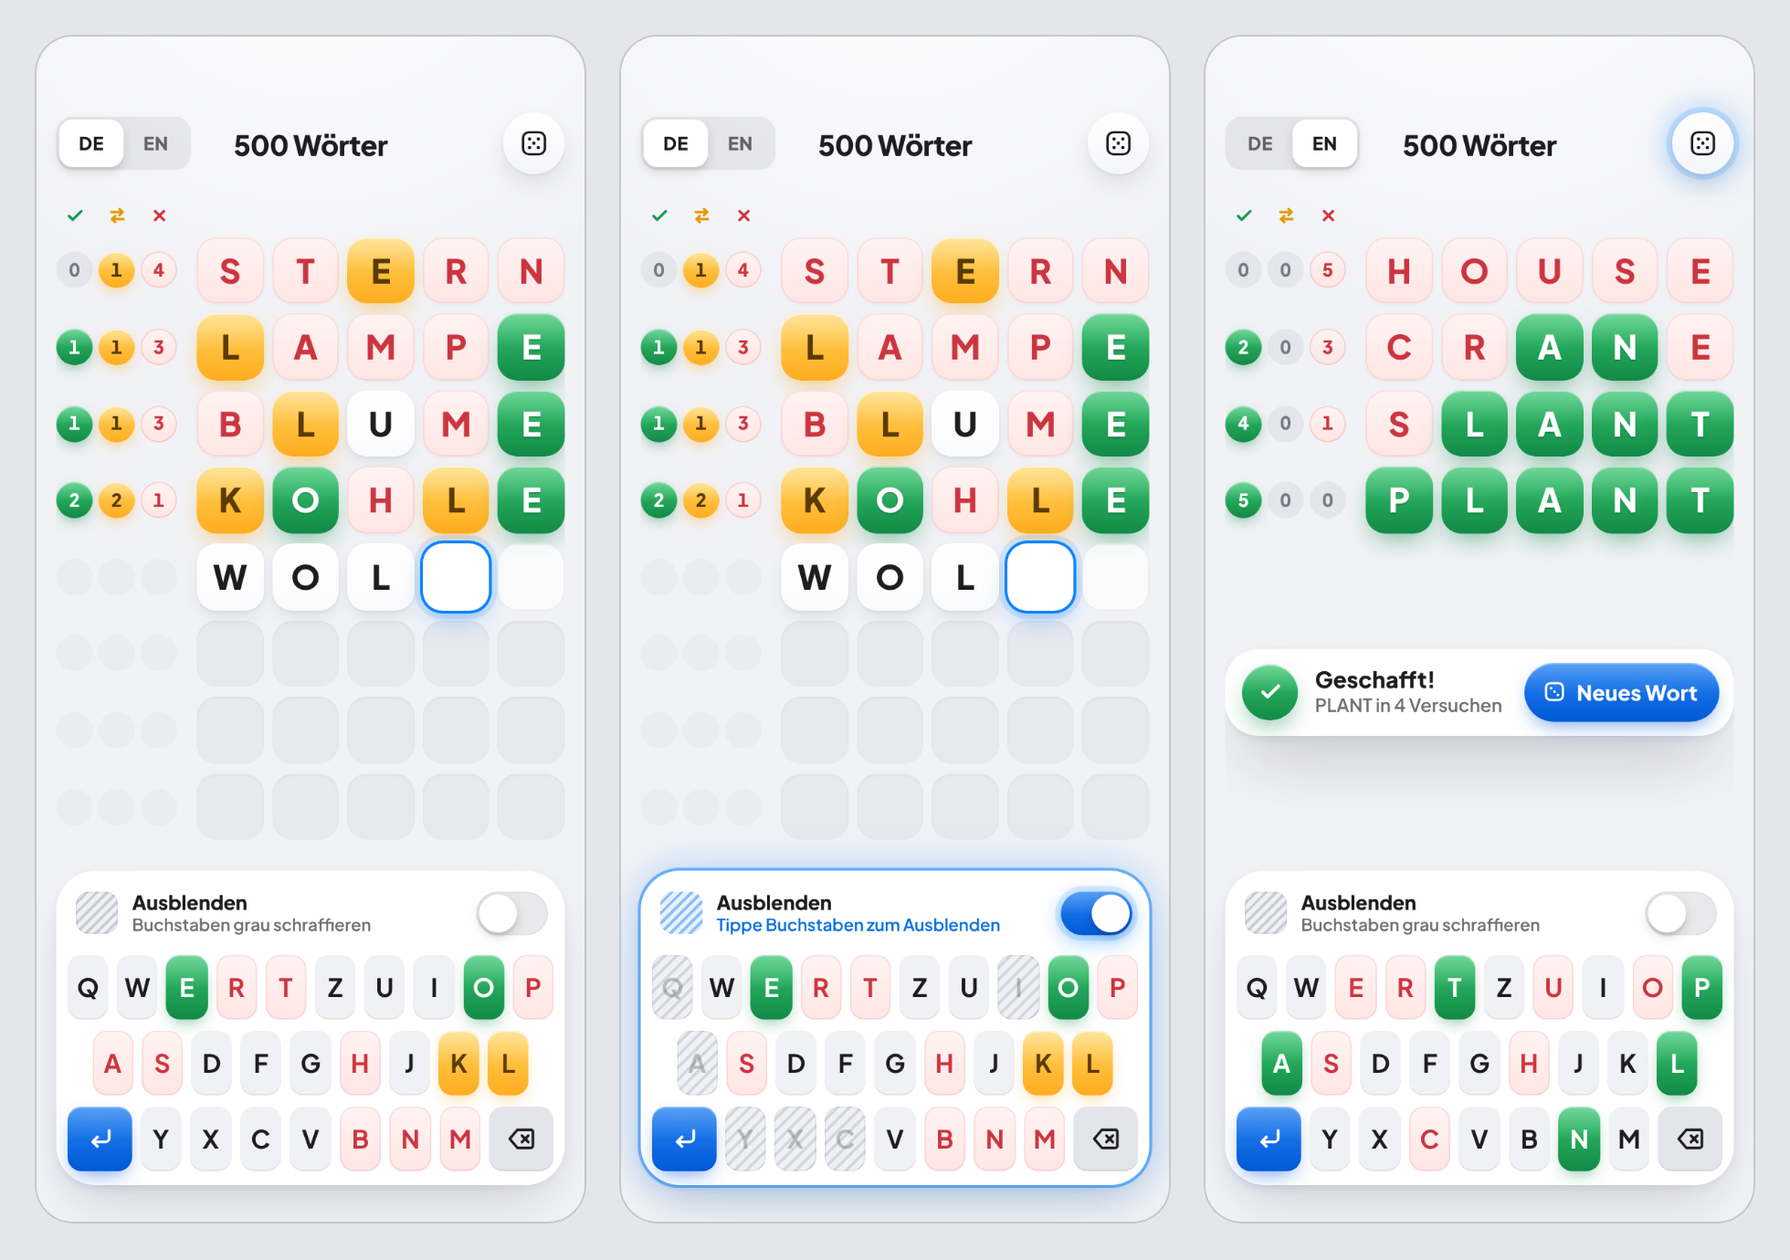
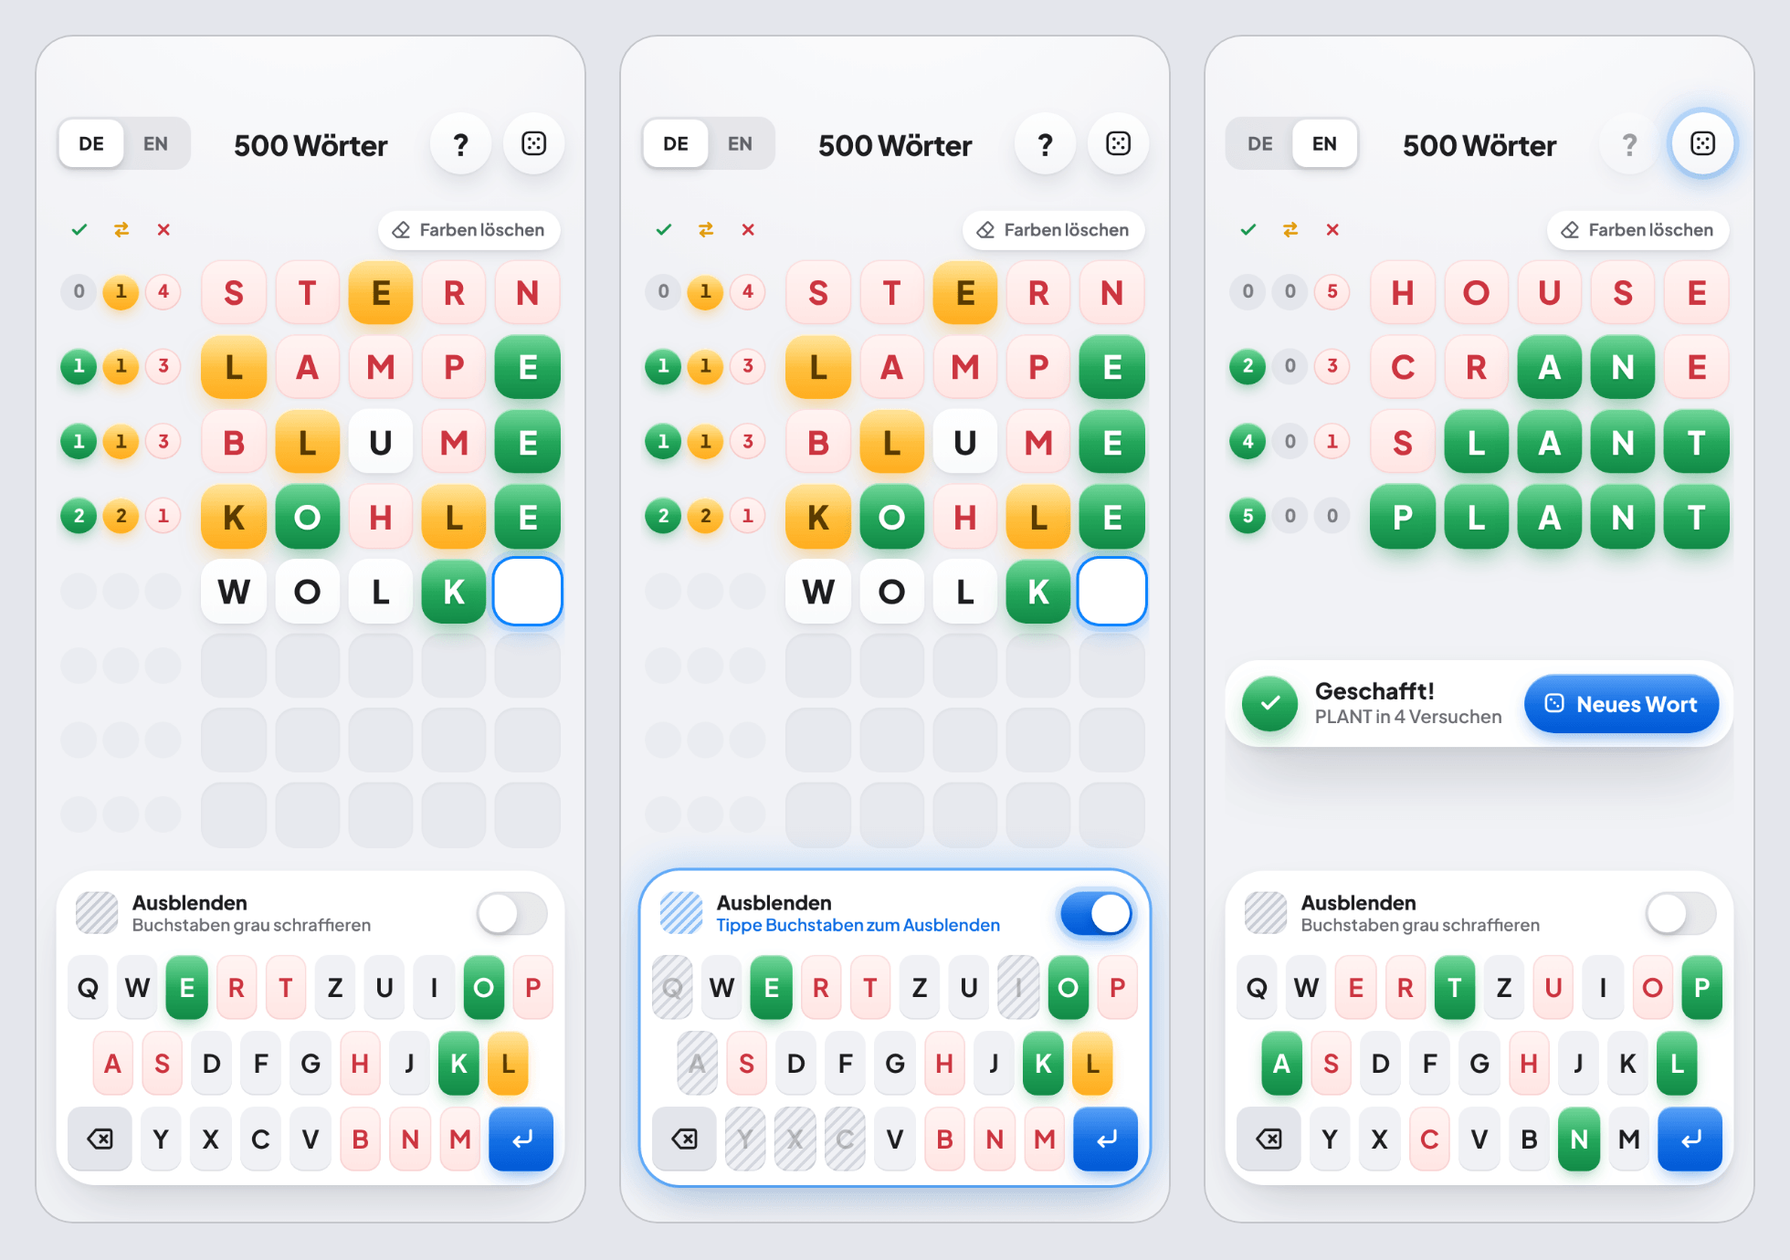
Doku: Farben löschen, Hinweis und neue Tastenreihe
- design/500-woerter-prompt.md: Aufbau, Bedienung, Tokens, Masse,
  Bewegung, Barrierefreiheit und Tests für die drei Updates. Den
  App-Icon-Abschnitt an die PNG-Vorlagen angepasst.
- README: Hinweis und Farben löschen erklärt, neues Bild der App.

Claude-Session: https://claude.ai/code/session_01WUhnti7SYRC46WoS4eiaSf

diff --git a/design/500-woerter-prompt.md b/design/500-woerter-prompt.md
@@ -38,7 +38,7 @@ Ein einziger Spiel-Screen mit wenigen Bedienelementen. Bewusst **nicht** enthalt
    - **falsch**: kommt nicht vor
 
    Die Summe ist immer 5.
-3. Das Spiel verrät nie, welche Buchstaben gemeint sind, und färbt keine Buchstaben automatisch ein. Einzige Ausnahme ist die Gewinnzeile.
+3. Das Spiel verrät nie von selbst, welche Buchstaben gemeint sind, und färbt keine Buchstaben automatisch ein. Ausnahmen sind die Gewinnzeile und Hinweise, die man selbst anfordert (siehe «Hinweis»).
 4. Bei 5 · 0 · 0 ist die Runde gewonnen. Ist das Wort nach 8 Versuchen nicht gefunden, ist die Runde verloren, und die Lösung wird angezeigt.
 
 ### Wertung (doppelte Buchstaben wie bei Wordle)
@@ -206,15 +206,15 @@ Von oben nach unten wie in `design/500-woerter-screens.png`. Die App ist eine Fl
 
 1. **Kopfzeile** (44 px hoch, drei Spalten):
    - links: Segment-Schalter `DE | EN`
-   - Mitte: Titel «500 Wörter»
-   - rechts: runder Würfel-Button (44 px)
+   - Mitte: Titel «500 Wörter», immer genau mittig
+   - rechts: runder Hinweis-Button «?» direkt links neben dem runden Würfel-Button (beide 44 px, gleicher Stil, Abstand 8 px)
 2. **Spielfeld** (`flex: 1; min-height: 0`), Inhalt vertikal zentriert:
-   - Über den drei Zahlen-Spalten steht je ein kleines Icon: Haken (grün), Doppelpfeil ⇄ (amber), Kreuz (rot).
+   - Icon-Reihe: Über den drei Zahlen-Spalten steht je ein kleines Icon: Haken (grün), Doppelpfeil ⇄ (amber), Kreuz (rot). In derselben Reihe rechts, bündig mit den Kacheln, die Pille «Farben löschen» mit Radierer-Icon (siehe «Farben löschen»).
    - 8 Zeilen. Pro Zeile links drei runde Zahlen-Chips (richtig, im Wort, falsch), rechts 5 Buchstaben-Kacheln.
 3. **Tastatur-Karte**: weisse Karte als letztes Element der Spalte (kein `position: fixed`), unten Abstand `env(safe-area-inset-bottom)`.
    - Oberste Reihe: Schraffur-Icon, «Ausblenden» mit Unterzeile «Buchstaben grau schraffieren», rechts ein iOS-Schalter.
-   - QWERTZ ohne Umlaute: `QWERTZUIOP`, `ASDFGHJKL`, dann [Prüfen] `YXCVBNM` [Löschen].
-   - Prüfen ist der blaue Verlaufs-Button links unten mit dem Symbol ↵. Löschen sitzt rechts unten mit dem Symbol ⌫. Beide bekommen ein `aria-label`.
+   - QWERTZ ohne Umlaute: `QWERTZUIOP`, `ASDFGHJKL`, dann [Löschen] `YXCVBNM` [Prüfen].
+   - Löschen sitzt links unten mit dem Symbol ⌫. Prüfen ist der blaue Verlaufs-Button rechts unten mit dem Symbol ↵. Beide bekommen ein `aria-label`.
 
 **Wenn der Platz knapp wird:**
 
@@ -228,8 +228,8 @@ Die Tastatur bleibt immer ganz sichtbar.
 
 ### Eingabe
 
-- Buchstaben-Tasten füllen die aktive Zeile von links, höchstens 5 Buchstaben.
-- Löschen entfernt den letzten Buchstaben.
+- Buchstaben-Tasten füllen die erste freie Stelle der aktiven Zeile von links und überspringen dabei Hinweis-Stellen. Zusammen mit den Hinweisen sind es höchstens 5 Buchstaben.
+- Löschen entfernt den hintersten getippten Buchstaben, nie einen Hinweis.
 - Die physische Tastatur funktioniert auch (A–Z, Enter, Backspace). Tasten mit Cmd, Ctrl oder Alt werden ignoriert.
 - Die nächste freie Kachel trägt den blauen Fokus-Glow.
 - Beim Prüfen:
@@ -237,12 +237,22 @@ Die Tastatur bleibt immer ganz sichtbar.
   - Wort nicht in der Liste: Zeile wackelt, Meldung «Nicht in der Wortliste»
   - Wort schon geraten: Zeile wackelt, Meldung «Schon versucht»
   - sonst: Die Zeile wird festgeschrieben, die Zahlen-Chips erscheinen nacheinander.
+- **Meldungen** erscheinen oben in voller Breite und decken die Kopfzeile kurz ab. Die verdeckten Buttons reagieren in dieser Zeit nicht.
 
 ### Markieren (eigene Notizen)
 
 - Antippen einer Kachel in einer bereits gewerteten Zeile schaltet weiter: ohne → Falsch → Im Wort → Richtig → ohne.
 - Markierungen sind nur Notizen und ändern die Wertung nie. Sie gelten pro Kachel.
-- Jede Tastatur-Taste zeigt die stärkste Markierung ihres Buchstabens über alle Zeilen: Richtig vor Im Wort vor Falsch. Ohne Markierung sieht die Taste normal aus.
+- Hinweis-Kacheln und die Gewinnzeile sind immer «Richtig» und lassen sich nicht umfärben.
+- Jede Tastatur-Taste zeigt die stärkste Markierung ihres Buchstabens über alle Zeilen: Richtig vor Im Wort vor Falsch. Hinweis-Buchstaben zählen als Richtig, auch schon in der Eingabezeile. Ohne Markierung sieht die Taste normal aus.
+
+### Farben löschen (Radierer)
+
+- Die Pille «Farben löschen» (Radierer-Icon und Text) steht rechts in der Icon-Reihe, bündig mit den Kacheln. Tippfläche mindestens 44 px hoch.
+- Sie ist nur sichtbar, wenn es mindestens eine eigene Markierung gibt. Solange die Sprechblase des Hinweises darüber liegt, ist sie ausgeblendet.
+- Antippen entfernt alle eigenen Markierungen in den gewerteten Zeilen. Die Tastaturfarben passen sich an.
+- Nicht betroffen: die grüne Gewinnzeile, Hinweis-Buchstaben und die Schraffur der Tastatur.
+- Danach erscheint 5 s lang die Meldung «Farben gelöscht» mit dem Button «Rückgängig». Er holt alle gelöschten Markierungen zurück.
 
 ### Ausblenden (Schraffier-Schalter)
 
@@ -259,10 +269,23 @@ Die Tastatur bleibt immer ganz sichtbar.
 - **Neues Wort** (Würfel oder nach Sieg/Niederlage): Schraffur leeren und Schalter ausschalten. Jede Sprache behält ihre eigene Schraffur pro Runde.
 - **Barrierefreiheit:** Gesperrte Tasten haben `aria-disabled="true"` und das Label «A, ausgeblendet».
 
+### Hinweis «?»
+
+- **Erster Tipp:** Der Button wirkt eingedrückt: etwas kleiner, hellblauer Grund, blaues «?», blauer Glow. Darunter erscheint die Sprechblase «Nochmals tippen für einen grünen Buchstaben».
+  - Nach 3 s oder bei einem Tipp woanders springt er zurück, ohne Hinweis. Dieser andere Tipp wirkt normal, eine Taste schreibt also ihren Buchstaben.
+  - Ein Tipp auf die Sprechblase schliesst sie nur.
+- **Zweiter Tipp:** Ein zufälliger Platz der aktuellen Zeile bekommt den richtigen Buchstaben der Lösung als grüne, gesperrte Kachel mit kurzem Glow. Der Button springt zurück.
+- **Platzwahl:** zufällig unter den Plätzen ohne Hinweis, leere Plätze zuerst. Sind alle gefüllt, ersetzt der Hinweis einen getippten Buchstaben.
+- **Tippen und Löschen** überspringen Hinweis-Plätze (siehe «Eingabe»).
+- **Schraffur:** Ist der Buchstabe ausgeblendet, wird die Schraffur aufgehoben.
+- **Wertung:** Hinweise zählen beim Prüfen normal mit. In der gewerteten Zeile bleiben sie grün und lassen sich nicht umfärben. Die Tastatur zeigt sie grün.
+- **Gesperrt** nach Rundenende und wenn alle 5 Plätze Hinweise sind.
+- Ein Hinweis zählt als angefangene Runde: Der Würfel fragt dann vorher nach.
+
 ### Würfel (neues Wort)
 
 - Ein Tippen auf den Würfel zieht ein neues Zufallswort in der aktiven Sprache.
-- Läuft die Runde (mindestens ein Versuch oder eine angefangene Eingabe), kommt vorher ein Dialog im iOS-Stil:
+- Läuft die Runde (mindestens ein Versuch, eine angefangene Eingabe oder ein Hinweis), kommt vorher ein Dialog im iOS-Stil:
   - Titel «Neues Wort?», Text «Die laufende Runde wird beendet.»
   - Buttons [Abbrechen] und [Neues Wort]
 - Nach Sieg oder Niederlage startet die neue Runde ohne Nachfrage.
@@ -286,17 +309,17 @@ Die Tastatur bleibt immer ganz sichtbar.
   - Sonst (Sieg im 7. oder 8. Versuch, Niederlage) ersetzt die Karte als kompakte Zeile in gleicher Höhe die Ausblenden-Reihe der Tastatur-Karte. Die Tastatur bleibt sichtbar.
 - **In beiden Fällen:**
   - Der Würfel bekommt einen blauen Glow.
-  - Es ist keine Eingabe mehr möglich. Markieren geht weiterhin, ausser in der Gewinnzeile.
+  - Es ist keine Eingabe mehr möglich, und «?» ist gesperrt. Markieren und «Farben löschen» gehen weiterhin, ausser in der Gewinnzeile.
 
 ### Speichern
 
 Alles liegt in `localStorage` unter dem versionierten Schlüssel `500w:v1`:
 
 - aktive Sprache
-- beide Runden: Lösung, Versuche mit Wertung und Markierungen, aktuelle Eingabe, ausgeblendete Buchstaben, Schalterzustand, Status
+- beide Runden: Lösung, Versuche mit Wertung, Markierungen und Hinweis-Plätzen, aktuelle Eingabe mit ihren Hinweisen, ausgeblendete Buchstaben, Schalterzustand, Status
 - die Shuffle-Bags
 
-Nach einem Neustart macht die App genau dort weiter.
+Nach einem Neustart macht die App genau dort weiter. Ältere Spielstände ohne Hinweise laden weiter, unter demselben Schlüssel.
 
 ## Design-Tokens
 
@@ -395,13 +418,53 @@ So werden die Tokens eingesetzt:
 | Prüfen, Schalter an, «Neues Wort» | `--action-bg` | `--action-shadow` bzw. `--switch-on-glow` |
 | Tastatur-Karte im Ausblende-Modus | `--card` | `--hide-glow`, dann `--card-shadow` |
 | Ergebnis-Karte, Meldungen | `--card` | `--toast-shadow` |
+| Pille «Farben löschen» | `--eraser-bg` | `--eraser-shadow`, Text `--eraser-ink`, Radius `--r-pill` |
+| «?» eingedrückt | `--hint-armed-bg` | Glow `--dice-glow`, Text `--hint-armed-ink`, Grösse `--hint-armed-scale` |
+| «?» gesperrt | wie der Würfel | Deckkraft `--disabled-opacity` |
+| Sprechblase | `--bubble-bg` | `--bubble-shadow`, Text `--bubble-ink`, Radius `--r-bubble`, höchstens `--bubble-max-width` breit |
+| Hinweis-Kachel | `--right-bg` | `--right-shadow`, frisch gesetzt zusätzlich `--hint-tile-glow` |
+| Meldung «Farben gelöscht» | `--card` | `--toast-shadow`, Icon `--toast-info-bg` / `--toast-info-ink`, Button `--toast-action-bg` / `--toast-action-ink` |
+
+Für Radierer, Hinweis und die Meldung mit «Rückgängig» kommen diese Tokens dazu, ebenfalls in `tokens.css`:
+
+```css
+:root {
+  /* Radierer «Farben löschen» */
+  --eraser-bg: #FFFFFF;
+  --eraser-ink: #5E626C;
+  --eraser-shadow: 0 1px 2px rgba(16, 24, 40, 0.06), 0 4px 12px -4px rgba(16, 24, 40, 0.16);
+  --r-pill: 14px;
+
+  /* Hinweis «?» */
+  --hint-armed-bg: #E8F2FF;
+  --hint-armed-ink: #0A6FE0;
+  --hint-armed-scale: 0.92;
+  --hint-tile-glow: 0 0 0 4px rgba(54, 198, 112, 0.24), 0 0 26px 4px rgba(54, 198, 112, 0.55);
+  --bubble-bg: #FFFFFF;
+  --bubble-ink: #1D1D1F;
+  --bubble-shadow: 0 16px 36px -12px rgba(16, 24, 40, 0.30), 0 2px 8px rgba(16, 24, 40, 0.08);
+  --bubble-max-width: 230px;
+  --r-bubble: 14px;
+  --disabled-opacity: 0.4;
+
+  /* Meldung mit Aktion («Rückgängig») */
+  --toast-info-bg: rgba(120, 128, 150, 0.10);
+  --toast-info-ink: #5E626C;
+  --toast-action-bg: rgba(10, 132, 255, 0.10);
+  --toast-action-ink: #0A6FE0;
+}
+```
 
 ### Masse (Referenz iPhone 390 × 844)
 
-- **Allgemein:** Seitenrand 14 px. Abstand Kopfzeile → Spielfeld → Tastatur je 16 px.
+- **Allgemein:** Seitenrand 14 px. Abstand Kopfzeile → Spielfeld → Tastatur je 16 px. Das Spielfeld hat oben zusätzlich 9 px Innenabstand, damit die Tippfläche des Radierers auch bei knappem Platz ganz hineinpasst.
+- **Kopfzeile:** Hinweis und Würfel je 44 px rund, Abstand 8 px.
 - **Kacheln:** Richtwert 46 px (Radius 14), Abstand 6 px, Zeilenabstand 7 px. Buchstaben halb so gross wie die Kachel, Gewicht 800.
 - **Zahlen-Chips:** 26 px rund, Abstand 4 px. Zahl 13 px, Gewicht 800. Abstand Chips → Kacheln 14 px.
-- **Icon-Reihe über den Chips:** 16 px hoch, Icons 15 px.
+- **Icon-Reihe über den Chips:** 28 px hoch, Icons 15 px.
+- **Pille «Farben löschen»:** 28 px hoch, Radius 14, Icon 15 px, Text 12 px mit Gewicht 700. Die Tippfläche reicht 9 px nach oben und 7 px nach unten (44 px), aber nie über die Kacheln.
+- **Sprechblase:** höchstens 230 px breit, Radius 14, Text 13 px mit Gewicht 700, zweizeilig zentriert. Sie sitzt 8 px unter dem «?», ihre Spitze zeigt auf den Button.
+- **Meldungen:** volle Breite über der Kopfzeile, mindestens 44 px hoch. «Rückgängig» ist 30 px hoch mit 44 px Tippfläche.
 - **Tastatur-Karte:**
   - Radius 28, Innenabstand 8 px (unten 10 px)
   - Ausblenden-Reihe 44 px hoch
@@ -410,12 +473,12 @@ So werden die Tokens eingesetzt:
   - zweite Reihe beidseitig um eine halbe Tastenbreite eingerückt (≈ 17 px)
 - **Schalter:** 51 × 31 px (iOS), Knopf 27 px.
 - **Segment-Schalter:** Spur mit 2 px Innenabstand, Segmente 46 × 34 px, Radius 12 bzw. 10.
-- **Titel:** 20 px, Gewicht 800, Laufweite −0.02em.
+- **Titel:** 20 px, Gewicht 800, Laufweite −0.02em. Auf schmalen Geräten kleiner: unter 360 px Breite 16 px, unter 340 px 15 px.
 
 ### Responsiv
 
-- Das Spielfeld bekommt `container-type: size`. Die Kachelgrösse ergibt sich aus seinem Platz: `--tile: clamp(30px, min((100cqw - 124px) / 5, (100cqh - 73px) / 8), 50px)`. Die Chips bleiben 26 px.
-- Kontrolliere während der Arbeit mit Playwright-Screenshots bei 375 × 667, 390 × 844 und 430 × 932: kein Scrollen, Tastatur ganz sichtbar, Kacheln mindestens 30 px. Playwright gehört nicht zu `npm test`.
+- Das Spielfeld bekommt `container-type: size`. Die Kachelgrösse ergibt sich aus seinem Platz: `--tile: clamp(30px, min((100cqw - 124px) / 5, (100cqh - 85px) / 8), 50px)`. Die Chips bleiben 26 px.
+- Kontrolliere während der Arbeit mit Playwright-Screenshots bei 375 × 667, 390 × 844 und 430 × 932: kein Scrollen, Tastatur ganz sichtbar, Kacheln mindestens 30 px, nichts kollidiert (Kopfzeile, Radierer, Sprechblase, Meldungen). Playwright gehört nicht zu `npm test`.
 - Desktop: App mittig mit höchstens 430 px Breite.
 - Technik:
   - `env(safe-area-inset-*)` mit `viewport-fit=cover`
@@ -431,6 +494,8 @@ Kurz und weich. Bei `prefers-reduced-motion` nur Überblendungen.
 - **Wertung:** Die Chips erscheinen nacheinander (je 60 ms) mit kleinem Pop.
 - **Fehler:** Die Zeile wackelt 300 ms, die Meldung erscheint oben für 1.6 s.
 - **Markieren:** Farbwechsel in 140 ms.
+- **Farben löschen:** Die Farben blenden in 140 ms aus, die Meldung «Farben gelöscht» bleibt 5 s. Die Pille blendet in 160 ms ein.
+- **Hinweis:** «?» schrumpft beim ersten Tipp auf 0.92, die Sprechblase blendet in 180 ms ein. Die neue Hinweis-Kachel federt auf und leuchtet 1.1 s grün nach.
 - **Schalter:** Der Knopf gleitet in 200 ms, der Glow blendet ein.
 - **Sieg:** Die Gewinnzeile färbt sich nacheinander grün (70 ms Abstand), die Ergebnis-Karte gleitet hoch.
 
@@ -440,6 +505,8 @@ Kurz und weich. Bei `prefers-reduced-motion` nur Überblendungen.
 - Kacheln mit `aria-label`, z. B. «S, falsch».
 - Jede Zeile mit Text für Screenreader, z. B. «Versuch 2: 1 richtig, 1 im Wort, 3 falsch».
 - Schalter mit `role="switch"`, Segment-Schalter und ausgeblendete Tasten (bei Schalter an) mit `aria-pressed`. Gesperrte Tasten (schraffiert bei Schalter aus) mit `aria-disabled="true"`.
+- Hinweis-Button mit `aria-label="Hinweis"` und `aria-pressed` (`"true"`, solange er eingedrückt ist), gesperrt mit `aria-disabled="true"`. Die Sprechblase hängt über `aria-describedby` am Button. Ein gesetzter Hinweis wird vorgelesen, z. B. «Hinweis an Stelle 3: L.».
+- Hinweis-Kacheln heissen z. B. «O, Hinweis». Die Eingabezeile nennt ihre Hinweise, z. B. «Versuch 5, Eingabe: W O L, Hinweis an Stelle 4: K».
 - Farbe trägt nie allein die Bedeutung: Dafür stehen die Icons über den Zahlen-Spalten.
 
 ## PWA und iOS
@@ -455,9 +522,8 @@ Kurz und weich. Bei `prefers-reduced-motion` nur Überblendungen.
   - `color-scheme: light`
 - **iOS:** `apple-mobile-web-app-capable`, `apple-mobile-web-app-status-bar-style: default` und ein `apple-touch-icon` mit 180 px.
 - **App-Icon:**
-  - hellgrauer Grund mit drei glänzenden Kacheln in Grün, Amber und Hellrot nebeneinander
-  - als `public/icon.svg` anlegen
-  - die PNGs mit `@vite-pwa/assets-generator` (Preset `minimal-2023`) erzeugen und committen
+  - Vorlagen in `design/`: `app-icon.png` und `app-icon-maskable.png`, je 1024 × 1024 px ohne Transparenz
+  - `npm run icons` (`scripts/build-icons.mjs`) erzeugt daraus in `public/` das iOS-Icon (180 px), die PWA-Icons (192 und 512 px), das maskierbare Icon (512 px, aus der maskierbaren Vorlage) und das Favicon (16, 32 und 48 px). Die erzeugten Dateien werden committet.
   - das 180-px-Icon ohne Transparenz und ohne eigene Rundung
 - Das Spiel ist offline voll spielbar.
 
@@ -469,8 +535,8 @@ src/
   data/solutions.json  data/valid-de.json  data/valid-en.json
   components/ Header  Board  Row  Tile  CountChips  Keyboard  HideSwitch  ResultCard  Toast  ConfirmDialog
   styles/tokens.css  styles/app.css
-public/icon.svg
-scripts/build-wordlists.mjs
+public/ (erzeugte Icons)
+scripts/build-wordlists.mjs  scripts/build-icons.mjs
 design/*.png
 ```
 
@@ -486,6 +552,18 @@ design/*.png
   - Schalter an: Tippen schraffiert statt zu schreiben.
   - Schalter aus: Die Schraffur bleibt, gesperrte Tasten schreiben weder per Tippen noch per physischer Tastatur.
   - Ein neues Wort leert die Schraffur.
+- Farben löschen:
+  - Die Pille erscheint erst mit einer eigenen Markierung.
+  - Antippen löscht alle eigenen Farben, die Tastatur passt sich an. Gewinnzeile, Hinweise und Schraffur bleiben.
+  - «Rückgängig» holt die Farben zurück. Nach 5 s ist die Meldung weg.
+- Tastatur: Die unterste Reihe lautet [Löschen] `YXCVBNM` [Prüfen].
+- Hinweis:
+  - Erst der zweite Tipp gibt einen Hinweis. Nach 3 s oder bei einem Tipp woanders springt «?» zurück.
+  - Platzwahl: leere Plätze zuerst, sonst wird ein getippter Buchstabe ersetzt, nie zweimal derselbe Platz.
+  - Tippen und Löschen überspringen Hinweise. Beim Prüfen zählen sie mit und bleiben grün und gesperrt.
+  - Die Schraffur des Hinweis-Buchstabens wird aufgehoben.
+  - Gesperrt nach Rundenende und bei 5 Hinweisen.
+  - Hinweise werden gespeichert und wieder geladen.
 - Sprache: Die beiden Runden bleiben getrennt erhalten.
 - Shuffle-Bag: 250 Ziehungen ohne Wiederholung. Nach dem Neumischen kommt das letzte Wort nicht sofort wieder.
 - Ergebnis-Karte: richtiger Platz bei Sieg mit freien Zeilen, bei Sieg im 8. Versuch und bei Niederlage.

diff --git a/README.md b/README.md
@@ -2,15 +2,26 @@
 
 Ein Wort-Ratespiel fürs iPhone nach dem Prinzip von [word500.com](https://word500.com), als installierbare Web-App (PWA) im Look von iOS-Widgets. Gesucht ist ein Wort mit 5 Buchstaben, auf Deutsch oder Englisch. Läuft komplett offline, ohne Konto und ohne Tracking.
 
-![Die App: Spiel auf Deutsch, Ausblenden aktiv, Englisch gewonnen](docs/app.png)
+![Die App: Spiel auf Deutsch mit Hinweis-Buchstabe K, Ausblenden aktiv, Englisch gewonnen](docs/app.png)
 
 ## So wird gespielt
 
 - Gesucht ist ein zufälliges Wort mit 5 Buchstaben. Du hast 8 Versuche.
-- Nach jedem Versuch stehen links nur drei Zahlen: **richtig** (✓, richtige Stelle), **im Wort** (⇄, andere Stelle) und **falsch** (✕, kommt nicht vor). Welche Buchstaben gemeint sind, verrät das Spiel nie.
+- Nach jedem Versuch stehen links nur drei Zahlen: **richtig** (✓, richtige Stelle), **im Wort** (⇄, andere Stelle) und **falsch** (✕, kommt nicht vor). Welche Buchstaben gemeint sind, verrät das Spiel nie von selbst.
+- Unten links löschst du einen Buchstaben (⌫), unten rechts prüfst du dein Wort (↵).
 - Tippe auf eine Kachel, um dir Notizen zu machen: ohne → Falsch → Im Wort → Richtig → ohne. Die Tastatur zeigt pro Buchstabe deine stärkste Markierung.
+- **Farben löschen** (rechts über den Kacheln) entfernt alle deine Markierungen auf einmal. Die grüne Gewinnzeile, Hinweise und die Schraffur bleiben. Die Meldung «Farben gelöscht» bietet 5 Sekunden lang **Rückgängig** an.
 - Mit dem Schalter **Ausblenden** schraffierst du Buchstaben, die du ausschliessen willst (siehe unten).
+- Der **Hinweis «?»** gibt dir einen richtigen Buchstaben (siehe unten).
 - Der **Würfel** oben rechts zieht ein neues Wort. **DE | EN** wechselt die Sprache. Jede Sprache hat ihre eigene Runde.
+
+### Hinweis
+
+- **Einmal tippen:** «?» bleibt eingedrückt, eine Sprechblase sagt «Nochmals tippen für einen grünen Buchstaben». Nach 3 Sekunden oder bei einem Tipp woanders springt der Button ohne Hinweis zurück.
+- **Nochmals tippen:** An einer zufälligen Stelle der aktuellen Zeile erscheint der richtige Buchstabe als grüne, gesperrte Kachel. Leere Stellen kommen zuerst dran. Ist die Zeile voll, ersetzt der Hinweis einen getippten Buchstaben.
+- Beim Tippen und Löschen werden Hinweis-Stellen übersprungen. Beim Prüfen zählen sie normal mit und bleiben danach grün.
+- War der Buchstabe ausgeblendet, verschwindet seine Schraffur.
+- Nach Rundenende und wenn alle 5 Stellen Hinweise sind, ist «?» gesperrt.
 
 ### Ausblenden
 
